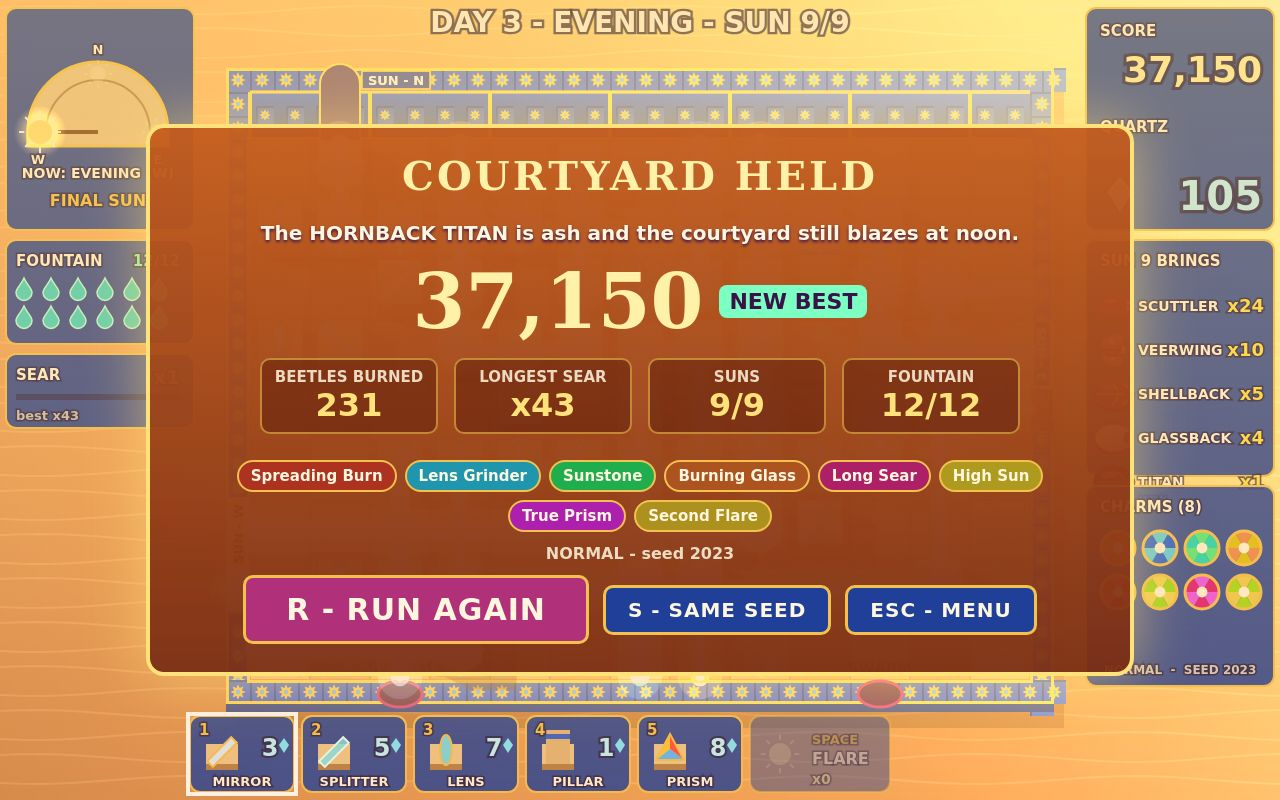
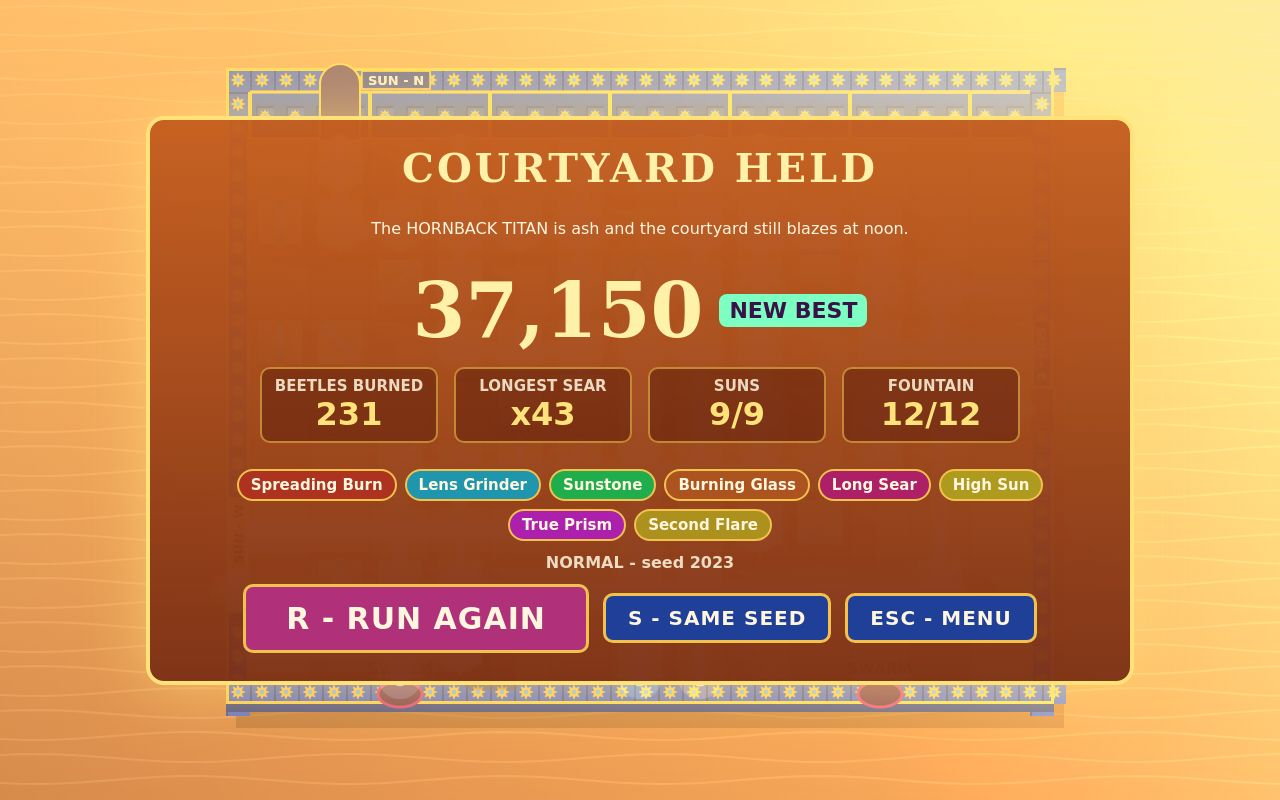
Draft screen: SUN MOVES WEST - PICK 1 heading, big-key roundels, X reroll + NEW chip, next-sun ghost beam with MISSES/HITS label; HUD hidden under draft and results

diff --git a/game/style.css b/game/style.css
@@ -39,24 +39,24 @@ button.big:hover { background: #cf3f93; }
 .howto-cols p { font-size: 18px; line-height: 1.45; margin: 0; }
 .howto-cols b { color: #ffe27a; }
 
-/* Draft */
-#draft-screen { padding-top: 96px; }
-.sunbanner { margin: 0; padding: 8px 26px; white-space: nowrap; font: 900 24px Georgia, serif; color: #fff2a8; background: rgba(31, 63, 153, 0.92); border: 3px solid #f2c14e; border-radius: 12px; letter-spacing: 0.5px; }
-.sub { margin: 10px 0 0; font-size: 20px; font-weight: 700; text-shadow: 0 2px 3px #3b1247; }
-.roundels { display: flex; gap: 34px; margin-top: 20px; }
-.roundel { position: relative; width: 240px; height: 240px; border-radius: 50%; padding: 0 30px; display: flex; flex-direction: column; align-items: center; justify-content: center; gap: 8px; border: 7px solid #f2c14e; overflow: hidden; background: #1f3f99; box-shadow: 0 10px 0 rgba(91, 58, 30, 0.5), 0 0 30px rgba(255, 210, 90, 0.35); }
-.roundel.rare { border-color: #fff6df; box-shadow: 0 10px 0 rgba(91, 58, 30, 0.5), 0 0 40px rgba(255, 255, 220, 0.8); }
-.roundel .glass { position: absolute; inset: 0; z-index: 0; background: conic-gradient(from 15deg, hsl(var(--hue) 80% 52%) 0 60deg, hsl(calc(var(--hue) + 35) 80% 38%) 0 120deg, hsl(var(--hue) 75% 60%) 0 180deg, hsl(calc(var(--hue) + 35) 80% 42%) 0 240deg, hsl(var(--hue) 80% 50%) 0 300deg, hsl(calc(var(--hue) + 35) 75% 36%) 0); opacity: 0.92; }
-.roundel .glass::after { content: ""; position: absolute; inset: 30px; border-radius: 50%; background: radial-gradient(#fffaf0, #f6dfae); border: 3px solid #f2c14e; }
-.roundel b, .roundel .effect, .roundel .key { position: relative; z-index: 1; }
-.roundel b { font: 900 25px Georgia, serif; color: #7a2e14; }
-.roundel .effect { font-size: 17px; font-weight: 800; line-height: 1.3; color: #3b1247; }
-.roundel .key { width: 34px; height: 34px; border-radius: 50%; background: #f2c14e; color: #3b1247; font-weight: 900; display: flex; align-items: center; justify-content: center; }
+/* Draft: one huge heading, three roundels with big keys, one footer line (readable at 252 px wide). */
+#draft-screen { justify-content: flex-start; }
+.sunbanner { margin: 6px 0 0; padding: 0 30px 6px; width: max-content; white-space: nowrap; font: 900 112px system-ui, sans-serif; line-height: 1.05; letter-spacing: -1px; transform: scaleX(0.72); color: #ffe27a; -webkit-text-stroke: 3px #3b1247; paint-order: stroke fill; background: rgba(31, 63, 153, 0.94); border: 5px solid #f2c14e; border-radius: 18px; }
+.roundels { display: flex; gap: 46px; margin-top: 200px; }
+.roundel { position: relative; width: 236px; height: 236px; border-radius: 50%; padding: 0 34px; display: flex; flex-direction: column; align-items: center; justify-content: center; gap: 4px; border: 7px solid #f2c14e; background: none; box-shadow: 0 10px 0 rgba(91, 58, 30, 0.5), 0 0 30px rgba(255, 210, 90, 0.45); }
+.roundel.rare { border-color: #fff6df; box-shadow: 0 10px 0 rgba(91, 58, 30, 0.5), 0 0 40px rgba(255, 255, 220, 0.85); }
+.roundel .glass { position: absolute; inset: 0; z-index: 0; border-radius: 50%; overflow: hidden; background: conic-gradient(from 15deg, hsl(var(--hue) 80% 52%) 0 60deg, hsl(calc(var(--hue) + 35) 80% 38%) 0 120deg, hsl(var(--hue) 75% 60%) 0 180deg, hsl(calc(var(--hue) + 35) 80% 42%) 0 240deg, hsl(var(--hue) 80% 50%) 0 300deg, hsl(calc(var(--hue) + 35) 75% 36%) 0); }
+.roundel .glass::after { content: ""; position: absolute; inset: 28px; border-radius: 50%; background: radial-gradient(#fffaf0, #f6dfae); border: 3px solid #f2c14e; }
+.roundel b, .roundel .key, .roundel .effect { position: relative; z-index: 1; }
+.roundel b { font: 900 34px Georgia, serif; line-height: 1.05; color: #7a2e14; }
+.roundel .key { position: absolute; top: -34px; width: 68px; height: 68px; border-radius: 50%; background: #f2c14e; border: 4px solid #fff6df; color: #3b1247; font: 900 48px system-ui, sans-serif; display: flex; align-items: center; justify-content: center; }
+.roundel .effect { display: none; position: absolute; top: calc(100% + 14px); white-space: nowrap; padding: 6px 16px; font: 800 30px system-ui, sans-serif; color: #fff6df; background: rgba(31, 63, 153, 0.95); border: 3px solid #f2c14e; border-radius: 10px; }
+.roundel:hover .effect { display: block; }
 .roundel:hover { transform: translateY(-4px) scale(1.03); }
-.draft-foot { display: flex; gap: 22px; align-items: center; margin-top: 30px; }
-.next { display: flex; gap: 8px; align-items: center; padding: 8px 14px; background: rgba(31, 63, 153, 0.9); border: 2px solid #f2c14e; border-radius: 10px; font-weight: 800; font-size: 15px; }
-.next .label { color: #ffe27a; }
-.next em { color: #ff8ad0; font-style: normal; }
+.draft-foot { position: absolute; bottom: 26px; display: flex; gap: 24px; align-items: center; }
+#draft-reroll { font-size: 34px; padding: 8px 26px; }
+.newchip { font: 900 34px system-ui, sans-serif; color: #fff6df; background: #b0307a; border: 3px solid #f2c14e; border-radius: 12px; padding: 8px 22px; }
+.newchip:empty { display: none; }
 .owned { display: flex; flex-wrap: wrap; justify-content: center; gap: 8px; margin-top: 14px; max-width: 900px; }
 .chip { padding: 5px 12px; border-radius: 16px; font-weight: 800; font-size: 15px; background: hsl(var(--hue) 70% 40%); border: 2px solid #f2c14e; }
 .none { opacity: 0.7; font-weight: 700; }

diff --git a/game/src/ui/menus.js b/game/src/ui/menus.js
@@ -57,35 +57,28 @@ export function renderTitle(bestFor, selected) {
   }).join('');
 }
 
-/** The draft: banner for the coming sun, three roundels, reroll, next-wave preview, owned boons. */
+/** The draft: a huge "SUN MOVES WEST - PICK 1", three roundels (effect on hover), reroll, NEW chip. */
 export function renderDraft(menus, run) {
   const key = `${run.waveIndex}|${run.offer.join(',')}|${run.quartz}`;
   if (key === menus.draftKey) return;
   menus.draftKey = key;
   const ap = sunApertureFor(run.seed, run.waveIndex);
   el('draft-banner').textContent = `${NAMES.sun} MOVES ${ap.phase.wallName} - PICK 1`;
-  const unlocked = PIECE_ORDER.find((type) => PIECES[type].unlockWave === run.waveIndex);
-  el('draft-sub').textContent = unlocked
-    ? `NEW GLASS: ${PIECES[unlocked].name.toUpperCase()} (key ${PIECE_ORDER.indexOf(unlocked) + 1}) - ${PIECES[unlocked].blurb}`
-    : `${NAMES.sun} ${run.waveIndex} held. Pick a glass charm for Day ${ap.day} ${ap.phase.name}, ${NAMES.sun.toLowerCase()} ${run.waveIndex + 1}/${WAVE_COUNT}.`;
   el('draft-roundels').innerHTML = run.offer
     .map((id, i) => {
       const b = boonById(id);
       return `<button class="roundel ${b.weight <= 2 ? 'rare' : ''}" style="--hue:${b.hue}" data-action="pick" data-arg="${i}">
-        <span class="key">${i + 1}</span><span class="glass"></span>
+        <span class="glass"></span><span class="key">${i + 1}</span>
         <b>${escapeHtml(b.name)}</b><span class="effect">${escapeHtml(b.text)}</span></button>`;
     })
     .join('');
   const cost = rerollCost(run);
   const reroll = el('draft-reroll');
-  reroll.textContent = `X - reroll (${cost} quartz)`;
+  reroll.textContent = `X - reroll (${cost} ${NAMES.currency.toLowerCase()})`;
   reroll.disabled = run.quartz < cost;
-  el('draft-next').innerHTML =
-    `<span class="label">NEXT ${NAMES.sun}</span>` +
-    waveRoster(run.waveIndex, run.diff)
-      .map((r) => `<span class="foe">${escapeHtml(ENEMIES[r.type].name)} x${r.count}${r.isNew ? ' <em>NEW</em>' : ''}</span>`)
-      .join('');
-  el('draft-owned').innerHTML = run.boons.length ? run.boons.map(boonChip).join('') : '<span class="none">No charms yet</span>';
+  const unlocked = PIECE_ORDER.find((type) => PIECES[type].unlockWave === run.waveIndex);
+  const newFoe = waveRoster(run.waveIndex, run.diff).find((r) => r.isNew);
+  el('draft-new').textContent = unlocked ? `NEW GLASS: ${PIECES[unlocked].name} [${PIECE_ORDER.indexOf(unlocked) + 1}]` : newFoe ? `NEW: ${ENEMIES[newFoe.type].name}` : '';
 }
 
 /** Results: win or defeat title, score with NEW BEST, stats, boons, seed and the restart keys. */

diff --git a/game/src/render/fx.js b/game/src/render/fx.js
@@ -141,6 +141,70 @@ export function drawBeams(ctx, trace, opts) {
   ctx.restore();
 }
 
+/** Where the first ray of a trace ends (follow legs end to start from the opening). */
+function beamTerminal(trace) {
+  if (!trace.legs.length) return null;
+  let leg = trace.legs[0];
+  for (let guard = 0; guard < trace.legs.length; guard++) {
+    const next = trace.legs.find((l) => l.x0 === leg.x1 && l.y0 === leg.y1 && l !== leg);
+    if (!next) break;
+    leg = next;
+  }
+  return { x: leg.x1, y: leg.y1 };
+}
+
+/**
+ * The next sun's light through the current glass, drawn as a dashed ghost: red ending in an X
+ * labelled MISSES when it lights none of the swarm's path, gold with the path cells it hits otherwise.
+ */
+export function drawBeamGhost(ctx, trace, pathCellsLit, time) {
+  const misses = pathCellsLit === 0;
+  const color = misses ? '#FF3B30' : '#FFD34D';
+  ctx.save();
+  ctx.lineCap = 'round';
+  ctx.setLineDash([16, 12]);
+  ctx.lineDashOffset = -time * 40;
+  for (const [width, stroke] of [[12, 'rgba(255,250,235,0.9)'], [6, color]]) {
+    ctx.lineWidth = width;
+    ctx.strokeStyle = stroke;
+    for (const leg of trace.legs) {
+      ctx.beginPath();
+      ctx.moveTo(toScreenX(leg.x0), toScreenY(leg.y0));
+      ctx.lineTo(toScreenX(leg.x1), toScreenY(leg.y1));
+      ctx.stroke();
+    }
+  }
+  ctx.setLineDash([]);
+  const end = beamTerminal(trace);
+  if (end) {
+    const x = toScreenX(end.x);
+    const y = toScreenY(end.y);
+    ctx.lineWidth = 9;
+    ctx.strokeStyle = '#FFFFFF';
+    for (const pass of [0, 1]) {
+      ctx.beginPath();
+      ctx.moveTo(x - 18, y - 18);
+      ctx.lineTo(x + 18, y + 18);
+      ctx.moveTo(x + 18, y - 18);
+      ctx.lineTo(x - 18, y + 18);
+      ctx.stroke();
+      ctx.lineWidth = 5;
+      ctx.strokeStyle = color;
+      if (pass === 0 && !misses) break;
+    }
+    const label = misses ? 'MISSES' : `HITS ${pathCellsLit} PATH CELLS`;
+    ctx.font = '900 32px system-ui, sans-serif';
+    ctx.textAlign = x > 640 ? 'right' : 'left';
+    const tx = x + (x > 640 ? -28 : 28);
+    ctx.lineWidth = 6;
+    ctx.strokeStyle = '#3B1247';
+    ctx.strokeText(label, tx, y + 11);
+    ctx.fillStyle = misses ? '#FF6B5E' : '#FFE27A';
+    ctx.fillText(label, tx, y + 11);
+  }
+  ctx.restore();
+}
+
 /** Particles and floating text, drawn above the board. */
 export function drawFx(ctx, fx) {
   for (const p of fx.particles) {

diff --git a/game/src/render/scene.js b/game/src/render/scene.js
@@ -2,7 +2,8 @@
 // The draft dims the board so the new opening's beam (through the current layout) stands out;
 // a win floods the courtyard with sunrise, a defeat drains the light.
 import { shadowVectorFor } from '../sun.js';
-import { drawBeams, drawFx, drawScreenFx, shakeOffset } from './fx.js';
+import { drawBeamGhost, drawBeams, drawFx, drawScreenFx, shakeOffset } from './fx.js';
+import { routeCells } from '../pathing.js';
 import { drawCourtyard, drawPiece, drawPieces, drawShrine } from './board.js';
 import { drawEnemies } from './beetles.js';
 import { drawHud } from './hud.js';
@@ -62,7 +63,10 @@ export function drawFrame(ctx, frame) {
     ctx.fillStyle = 'rgba(70,40,15,0.35)';
     ctx.fillRect(BOARD_X - WALL, BOARD_Y - WALL_FRONT - WALL, BOARD_W + WALL * 2, BOARD_H + WALL_FRONT + WALL * 2);
   }
-  if (phase !== 'lost') {
+  if (phase === 'draft') {
+    const onPath = new Set(routeCells(run.grid, run.flow).filter((i) => run.trace.lit[i] > 0)).size;
+    drawBeamGhost(ctx, run.trace, onPath, time);
+  } else if (phase !== 'lost') {
     const alpha = phase === 'wave' || phase === 'won' ? 1 : phase === 'build' ? 0.8 : 0.95;
     drawBeams(ctx, ui.ghostTrace ?? run.trace, { alpha, flare: run.flareLeft > 0 ? 1 : 0, time });
   }

diff --git a/game/src/main.js b/game/src/main.js
@@ -302,7 +302,8 @@ function render() {
   if (app.screen === 'play') {
     const run = app.run;
     app.ui.fast = app.fast;
-    drawFrame(ctx, { run, ui: app.ui, fx: app.fx, time: run.time, showHud: true, shake: app.settings.shake, shrineHurtAgo: run.time - app.shrineHurtAt });
+    const showHud = run.phase !== 'draft' && app.overlay !== 'results';
+    drawFrame(ctx, { run, ui: app.ui, fx: app.fx, time: run.time, showHud, shake: app.settings.shake, shrineHurtAgo: run.time - app.shrineHurtAt });
     setBeamHum(litLength(run.trace), run.phase === 'wave' && !app.paused);
     updateMusic(run.waveIndex, run.phase === 'wave' && !app.paused);
     if (run.phase === 'wave' && !app.paused) playSizzle(run.enemies.reduce((n, e) => n + (e.litPower > 0 && !e.shielded ? 1 : 0), 0));

diff --git a/game/src/pathing.js b/game/src/pathing.js
@@ -35,6 +35,23 @@ export function flowDirectionAt(flow, c, r) {
   return flow.next[r * flow.cols + c];
 }
 
+/** Every cell walkers step through from each burrow to the fountain (repeats kept per burrow). */
+export function routeCells(grid, flow) {
+  const cells = [];
+  for (const g of grid.gates) {
+    let c = g.c;
+    let r = g.r;
+    for (let guard = 0; guard < grid.cols * grid.rows; guard++) {
+      cells.push(r * grid.cols + c);
+      const d = flowDirectionAt(flow, c, r);
+      if (d < 0) break;
+      c += DX[d];
+      r += DY[d];
+    }
+  }
+  return cells;
+}
+
 /** Steps from a cell to the shrine along the flow field. */
 export function routeLength(flow, c, r) {
   return flow.dist[r * flow.cols + c];

diff --git a/game/index.html b/game/index.html
@@ -74,13 +74,11 @@
 
   <section id="draft-screen" class="overlay hidden">
     <h2 id="draft-banner" class="sunbanner"></h2>
-    <p id="draft-sub" class="sub"></p>
     <div id="draft-roundels" class="roundels"></div>
     <div class="draft-foot">
       <button id="draft-reroll" data-action="reroll"></button>
-      <div id="draft-next" class="next"></div>
+      <span id="draft-new" class="newchip"></span>
     </div>
-    <div id="draft-owned" class="owned"></div>
   </section>
 
   <section id="results-screen" class="overlay hidden">

diff --git a/NOTES.md b/NOTES.md
@@ -35,6 +35,11 @@
 - M4 (part): no dark frames - sepia rgba(70,40,15,0.35) dims, orange-edged white-core beams,
   parchment roundel centres; measure-shots gates mean luminance >= 0.45, no 64x64 block < 0.15.
 
+- Draft redesign (benchmark 1 item 9 + item 1 sizes): huge condensed "SUN MOVES WEST - PICK 1"
+  heading, three 236 px roundels with 48 px keys and 34 px names (effect text on hover), "X - reroll"
+  + "NEW: GLASSBACK" footer, HUD hidden; the next sun's beam drawn as a dashed ghost ending in an X
+  labelled MISSES (or HITS n PATH CELLS, honestly computed from pathing.routeCells).
+
 ## Next
 - M3 feel (rest): hit-stop-like pop on SEAR steps, fountain pip crack, quartz counter pulse,
   colour-blind beam patterns (option), How to play illustrated panels.
